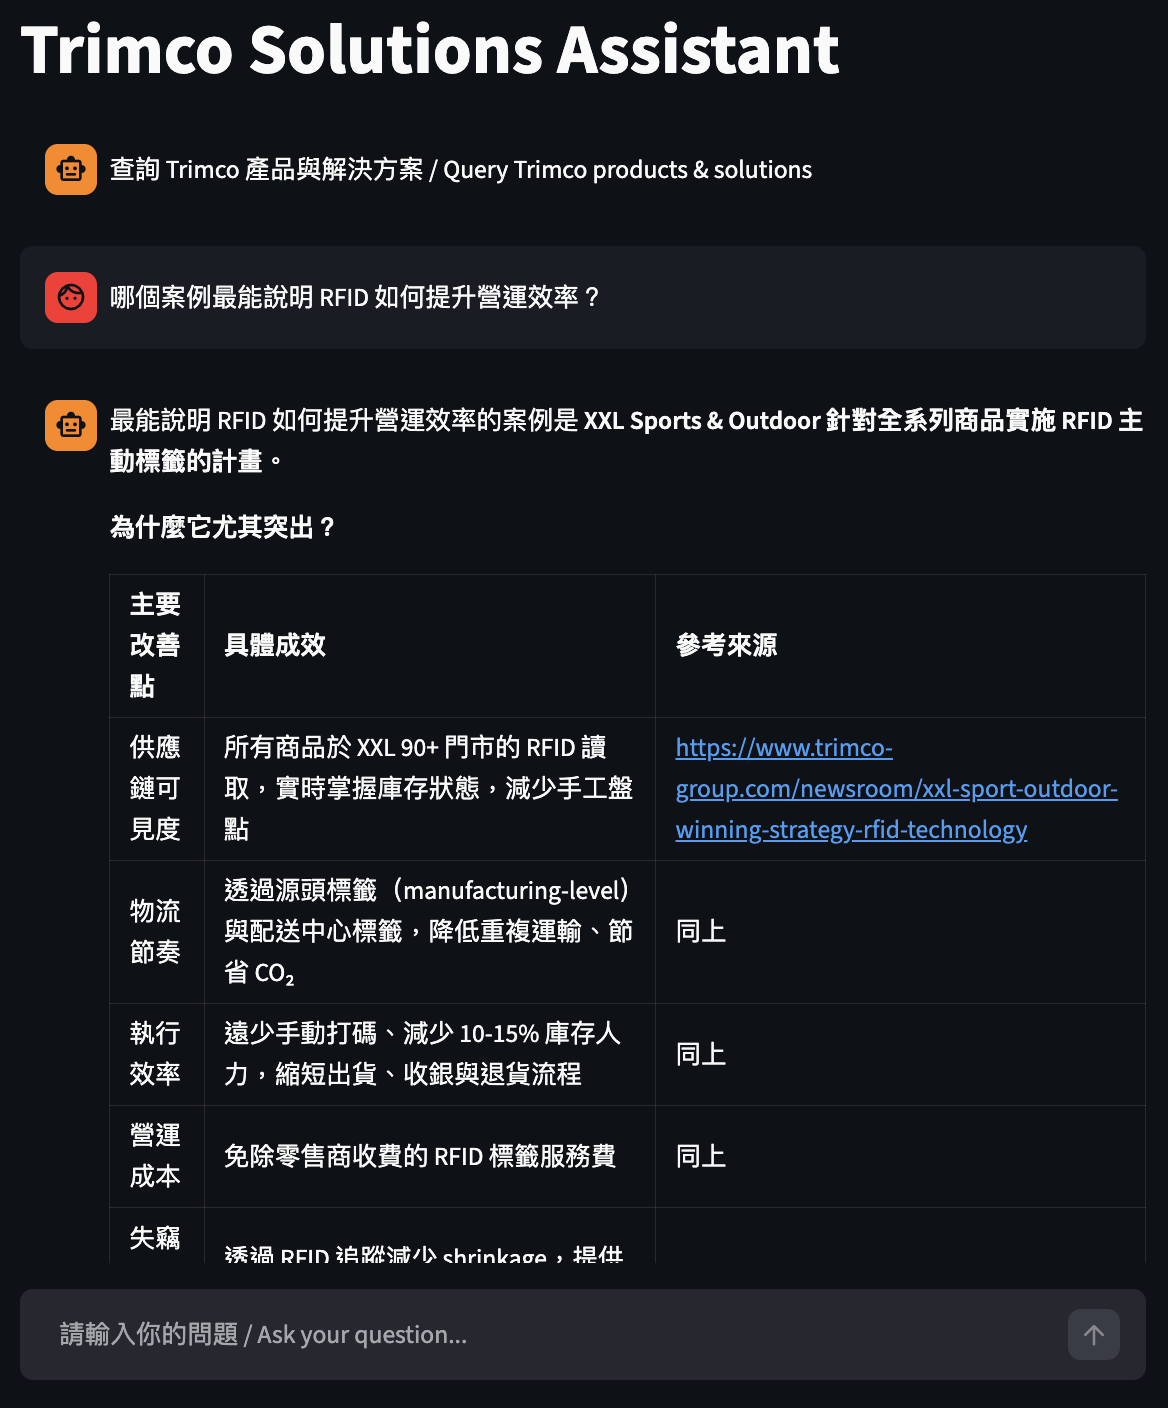
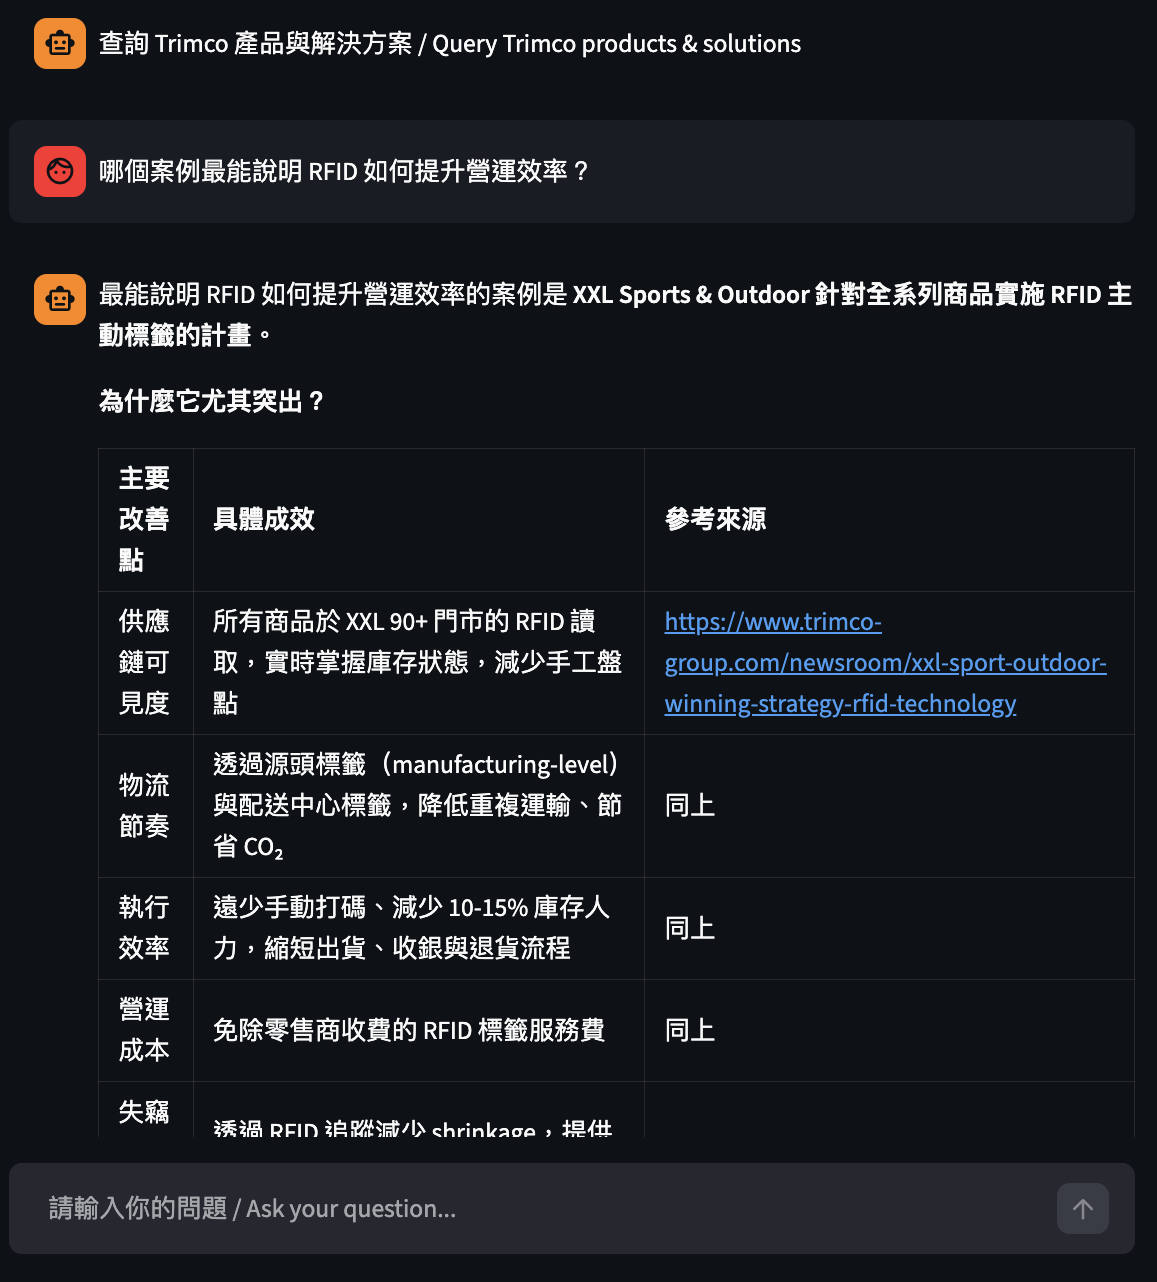
Adjust screen size and add border

diff --git a/README.md b/README.md
@@ -8,8 +8,8 @@ This prototype demonstrates how static content can be transformed into a queryab
 
 ## Screenshot
 <p>
-  <img src="./screen01.png" width="400"/>
-  <img src="./screen02.png" width="400"/>
+  <img src="./screen01.png" width="400" style="border:1px solid #555;margin-right:1%;" />
+  <img src="./screen02.png" width="400" style="border:1px solid #555;" />
 </p>
 
 ## Use Case
